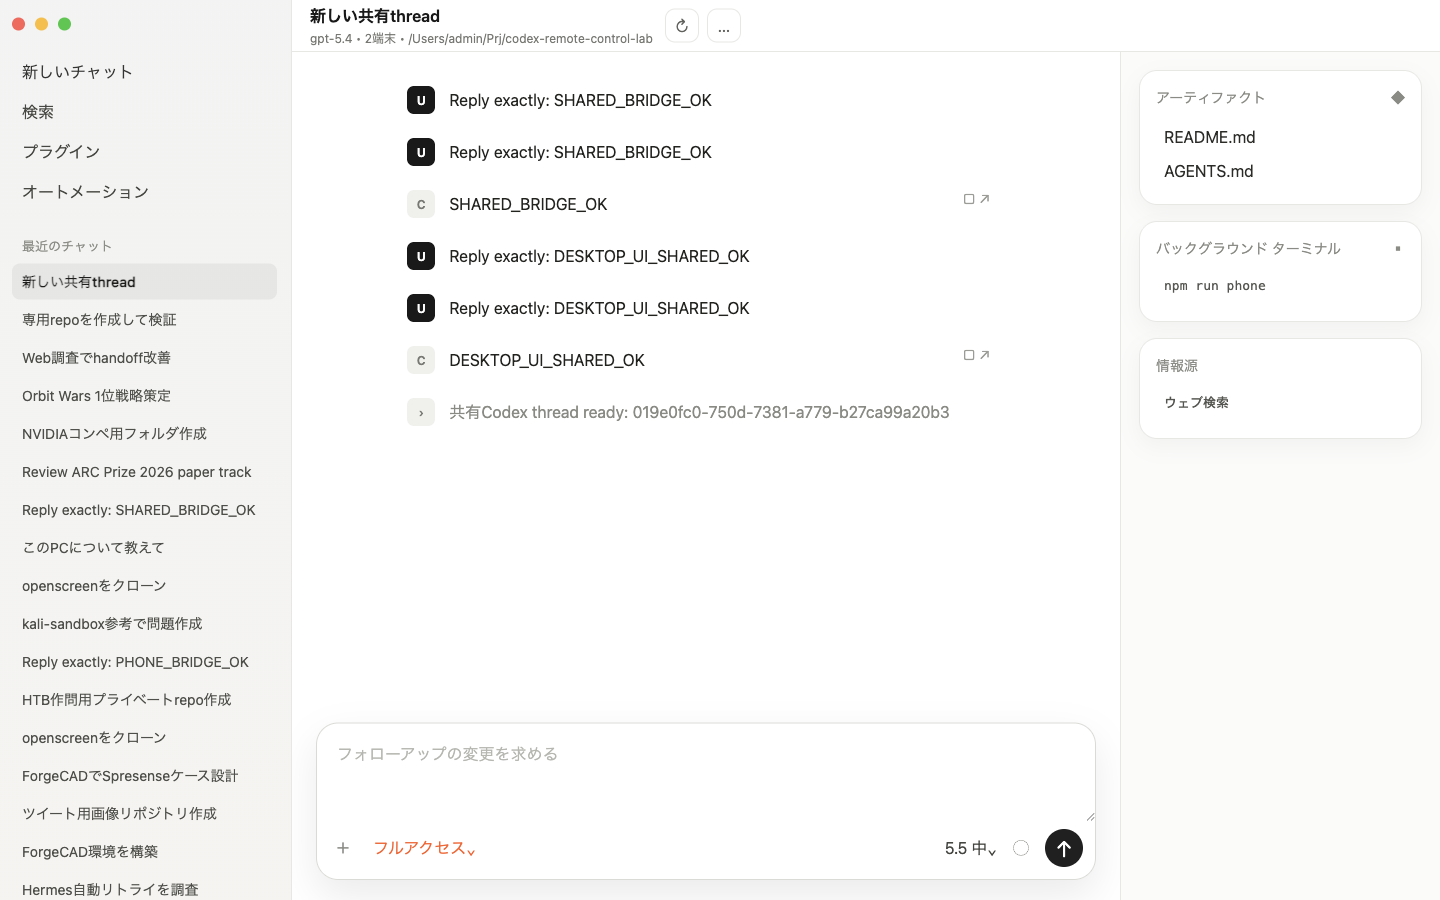
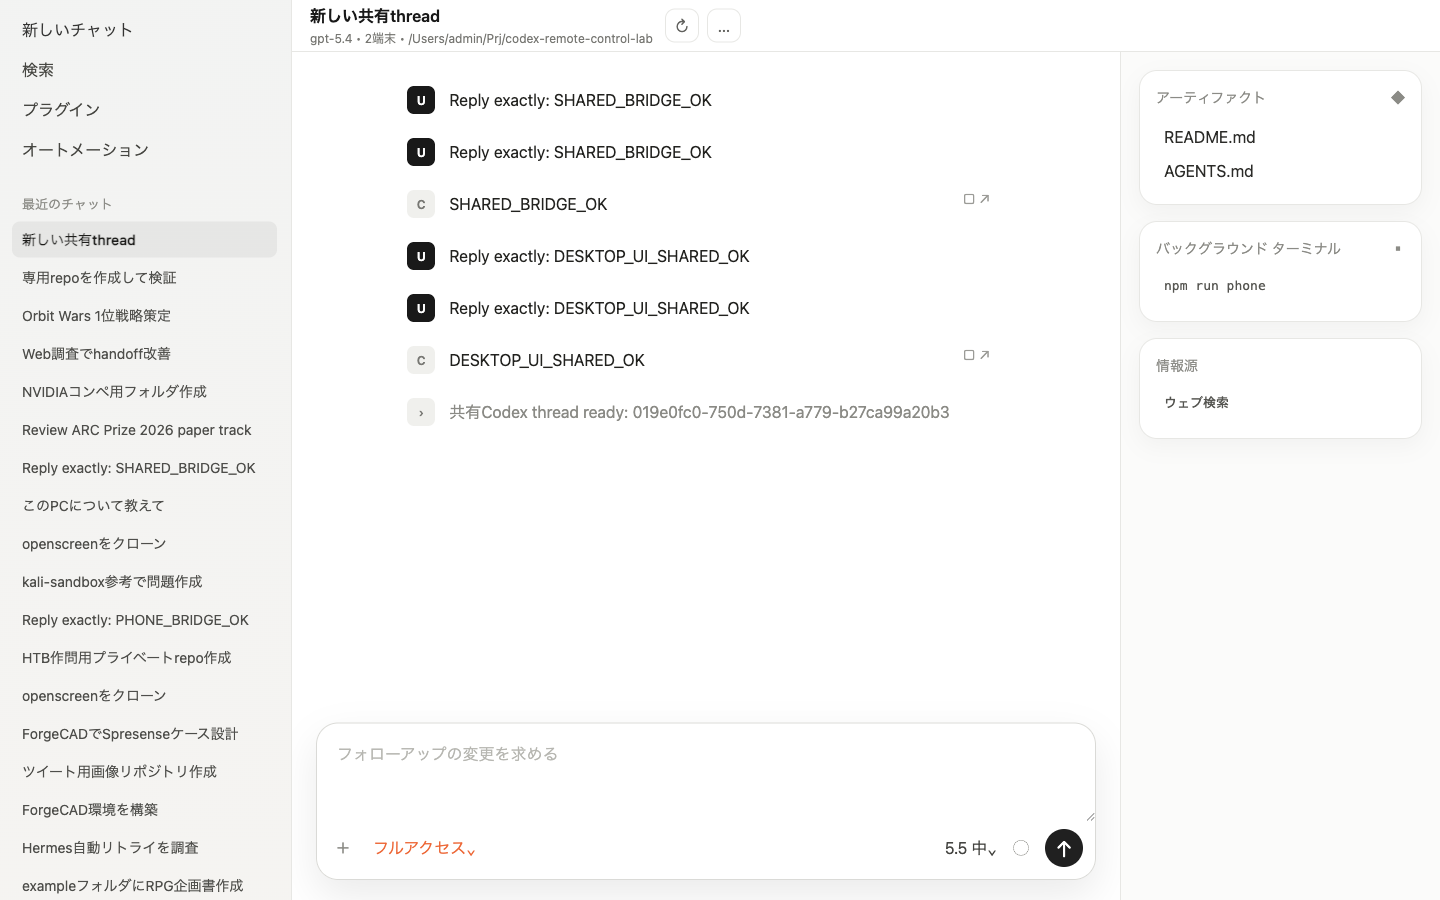
Fix conversation scrolling and remove faux window controls

diff --git a/public/style.css b/public/style.css
@@ -40,37 +40,12 @@ button {
 
 .sidebar {
   display: grid;
-  grid-template-rows: auto auto minmax(0, 1fr) auto;
+  grid-template-rows: auto minmax(0, 1fr) auto;
   gap: 18px;
   min-width: 0;
   padding: 12px 12px 16px;
   background: linear-gradient(180deg, #f2f3f2 0%, #f7f4f0 100%);
   border-right: 1px solid var(--line);
-}
-
-.window-dots {
-  display: flex;
-  gap: 10px;
-  height: 24px;
-  align-items: center;
-}
-
-.dot {
-  width: 13px;
-  height: 13px;
-  border-radius: 50%;
-}
-
-.dot.red {
-  background: #ff5f57;
-}
-
-.dot.yellow {
-  background: #febc2e;
-}
-
-.dot.green {
-  background: #28c840;
 }
 
 .primary-nav {
@@ -212,8 +187,8 @@ p {
 
 .conversation {
   position: relative;
-  display: grid;
-  grid-template-rows: minmax(0, 1fr) auto auto;
+  display: flex;
+  flex-direction: column;
   height: 100%;
   min-height: 0;
   min-width: 0;
@@ -221,9 +196,13 @@ p {
 }
 
 .log {
+  flex: 1 1 auto;
   min-height: 0;
   overflow-y: auto;
+  overscroll-behavior: contain;
   padding: 34px clamp(22px, 8vw, 160px) 24px;
+  touch-action: pan-y;
+  -webkit-overflow-scrolling: touch;
 }
 
 .entry {
@@ -275,6 +254,7 @@ p {
 }
 
 .approval {
+  flex: 0 0 auto;
   width: min(860px, calc(100% - 48px));
   margin: 0 auto 12px;
   padding: 14px;
@@ -320,6 +300,7 @@ p {
 }
 
 .composer {
+  flex: 0 0 auto;
   width: min(860px, calc(100% - 48px));
   min-height: 116px;
   margin: 0 auto 20px;

diff --git a/public/index.html b/public/index.html
@@ -9,11 +9,6 @@
   <body>
     <main class="app-shell">
       <aside class="sidebar" aria-label="スレッド">
-        <div class="window-dots" aria-hidden="true">
-          <span class="dot red"></span>
-          <span class="dot yellow"></span>
-          <span class="dot green"></span>
-        </div>
         <nav class="primary-nav">
           <button type="button" class="nav-command" id="newThread">新しいチャット</button>
           <button type="button" class="nav-command muted">検索</button>

diff --git a/README.md b/README.md
@@ -92,6 +92,7 @@ The current phone bridge supports:
 - sending prompts from the phone
 - streaming assistant text back to the phone
 - showing command/file-change approval requests with approve/decline buttons
+- scrolling long resumed threads inside the conversation pane while keeping the composer visible
 
 Open the same printed URL from both the Mac/PC browser and the phone to see the same shared bridge thread. To resume a known existing thread directly, add `thread=<thread_id>`:
 